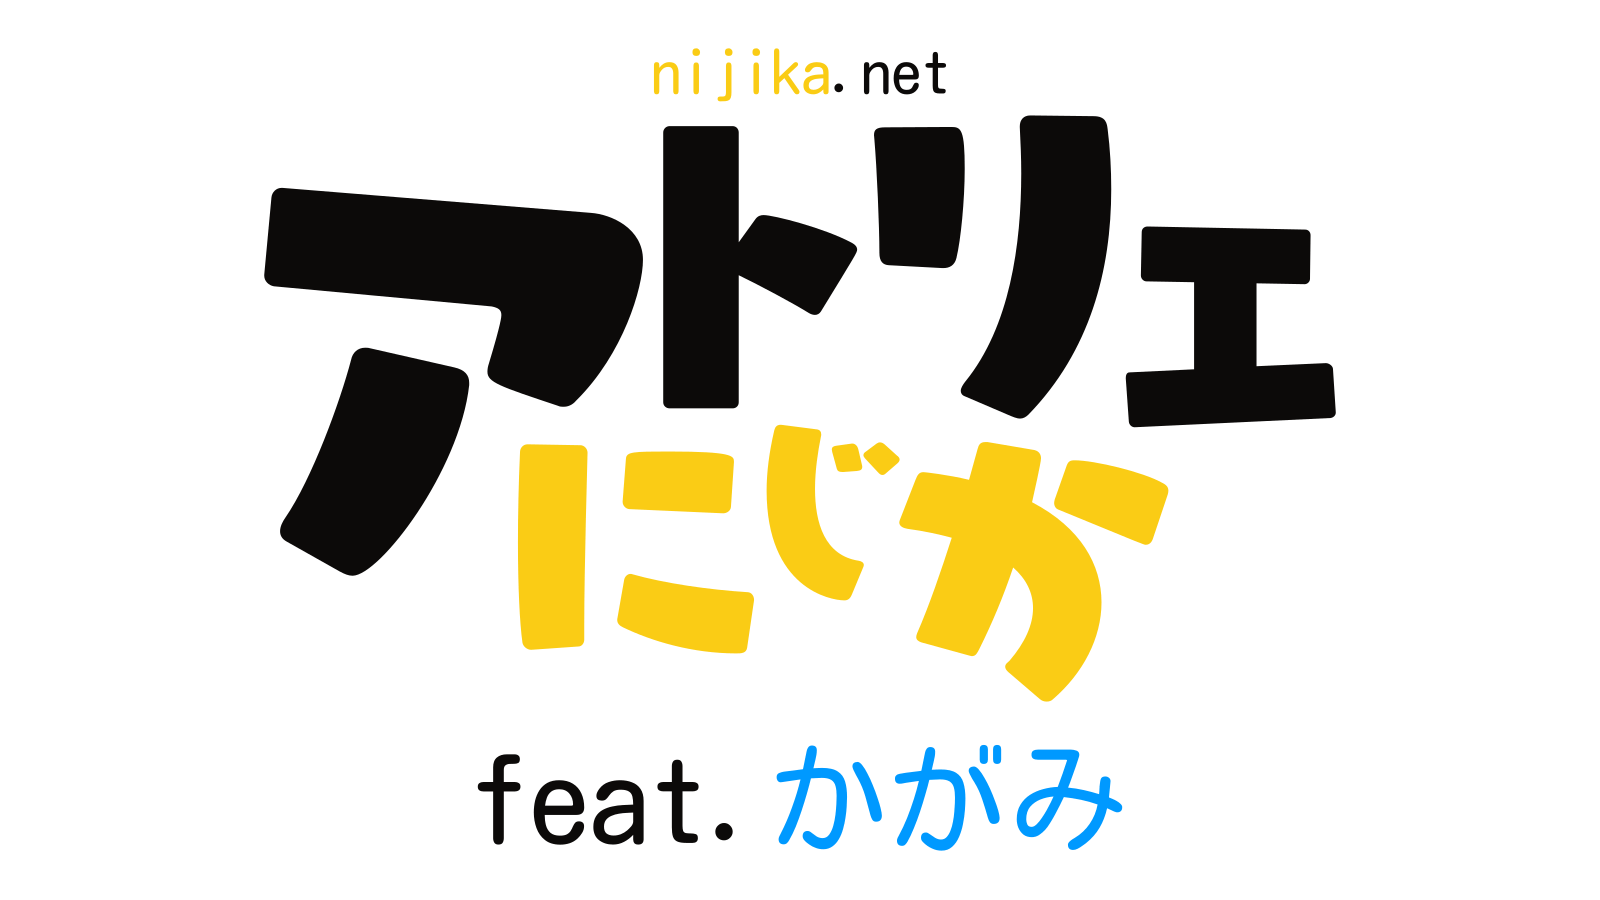
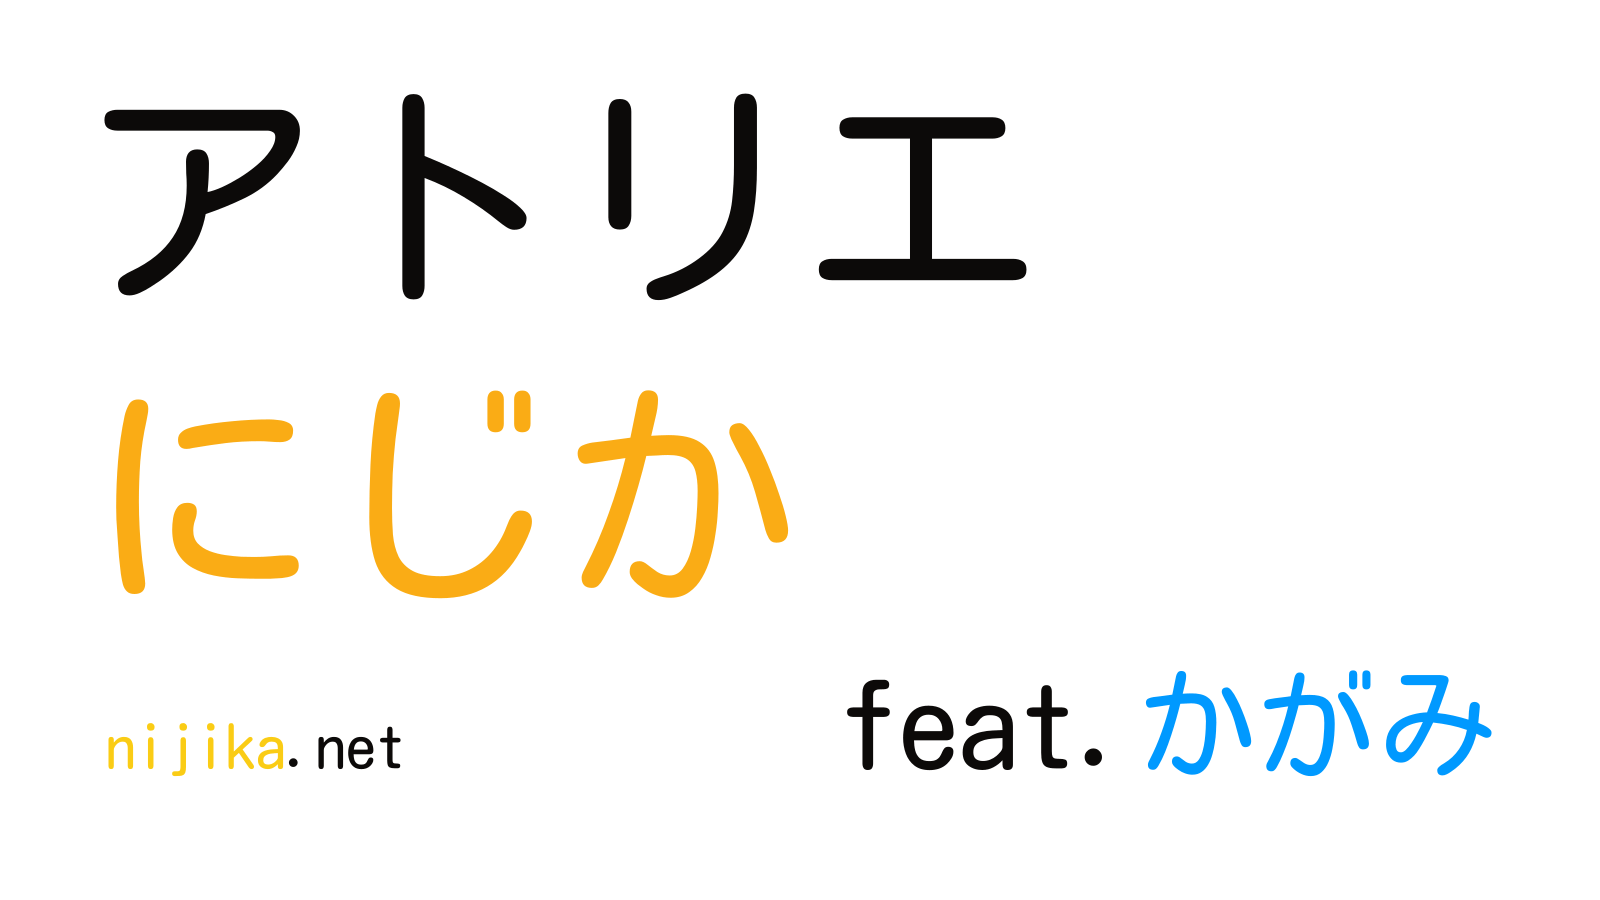
feat: remove social image that requires license

Changed region(s): [[0.0625, 0.0622, 0.8438, 0.9644], [0.7188, 0.7467, 0.9375, 0.8711], [0.0625, 0.8089, 0.25, 0.8711]]

diff --git a/src/app/posts/[slug]/opengraph-image.tsx b/src/app/posts/[slug]/opengraph-image.tsx
@@ -3,12 +3,11 @@
 import { readFile } from 'node:fs/promises'
 import path from 'node:path'
 
-import { ImageResponse } from 'next/og'
 import { notFound } from 'next/navigation'
+import { ImageResponse } from 'next/og'
 
 import { allPosts } from 'contentlayer/generated'
 import { SITE_URL } from '~/constants'
-import { ensurePostId } from '~/lib/redis'
 
 const size = {
   width: 1600,
@@ -65,17 +64,16 @@ const Image = async ({ params }: { params: { slug: string } }) => {
       >
         <div
           style={{
-            width: '100%',
+            width: '80%',
             display: 'flex',
             alignContent: 'center',
             alignItems: 'center',
             flexDirection: 'column',
+            textWrap: 'pretty',
+            textAlign: 'center',
           }}
         >
           <img src={logoSrc as unknown as string} width={600} />
-          <span tw="mt-16" style={{ fontSize: '64px' }}>
-            来自アトリエ<em tw="text-[#facc15]">にじか</em>的文章
-          </span>
           <span>{post?.title}</span>
           <span style={{ fontSize: '48px' }}>{`${SITE_URL}/${post.id}`}</span>
         </div>
